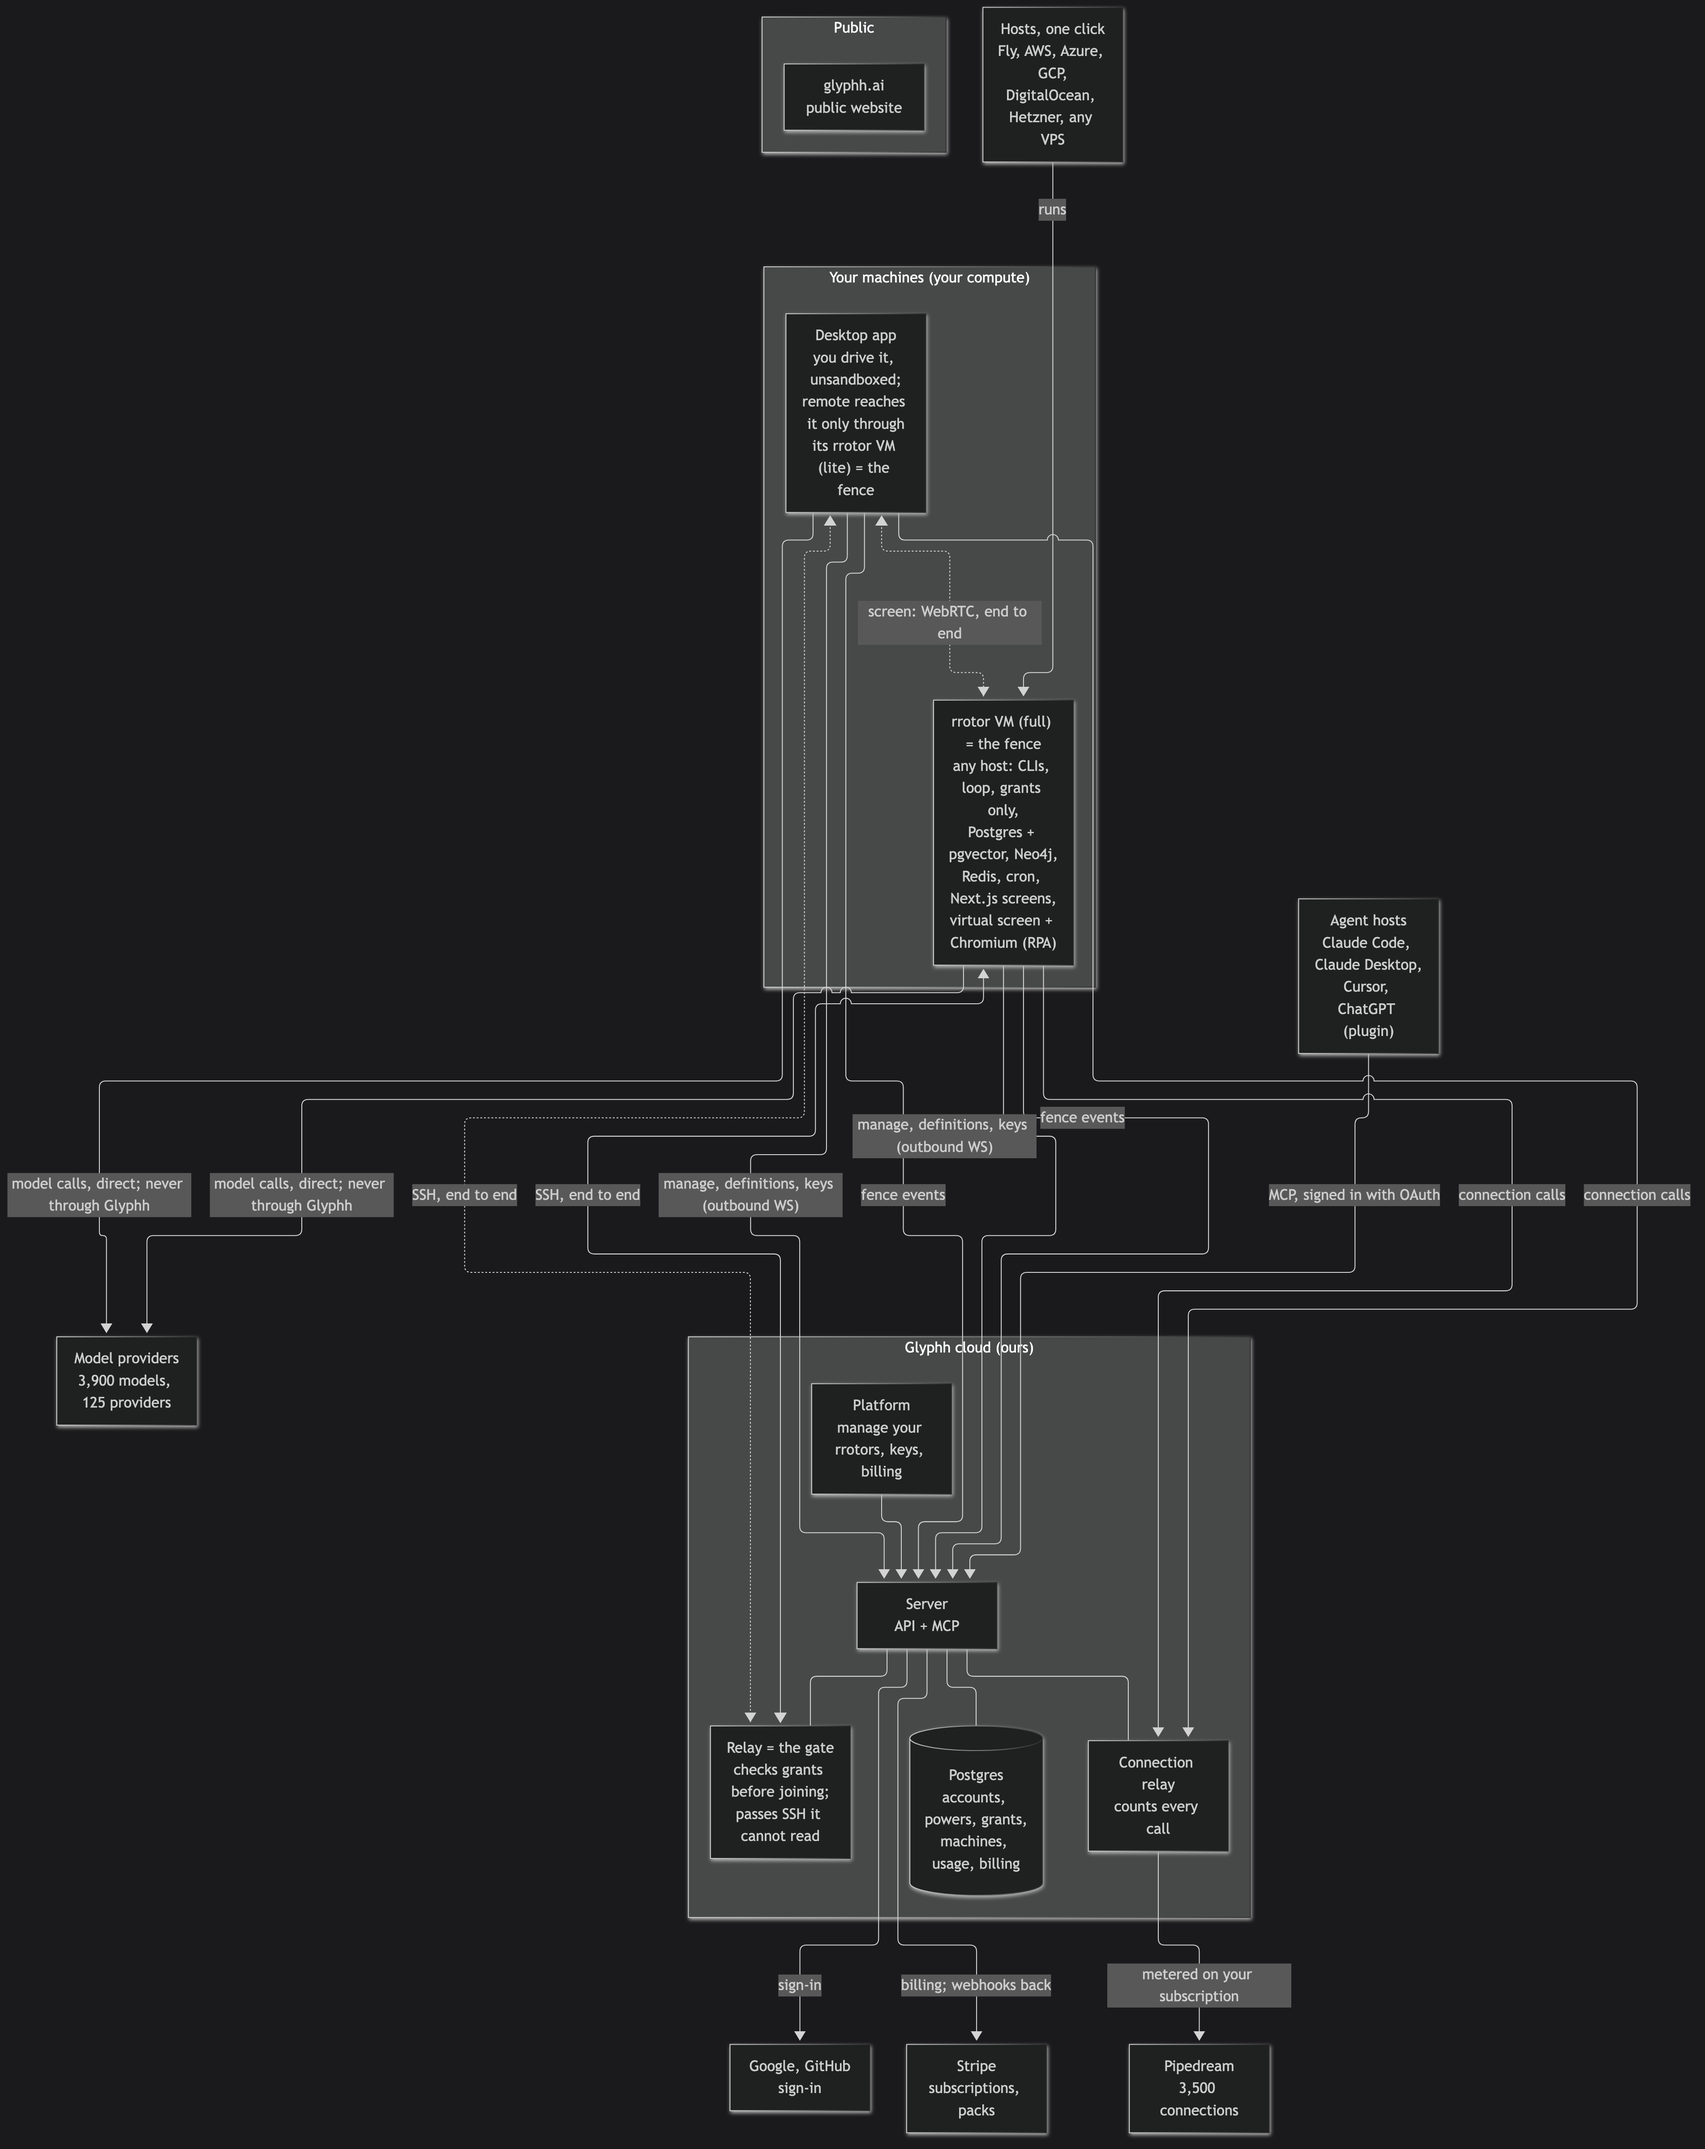
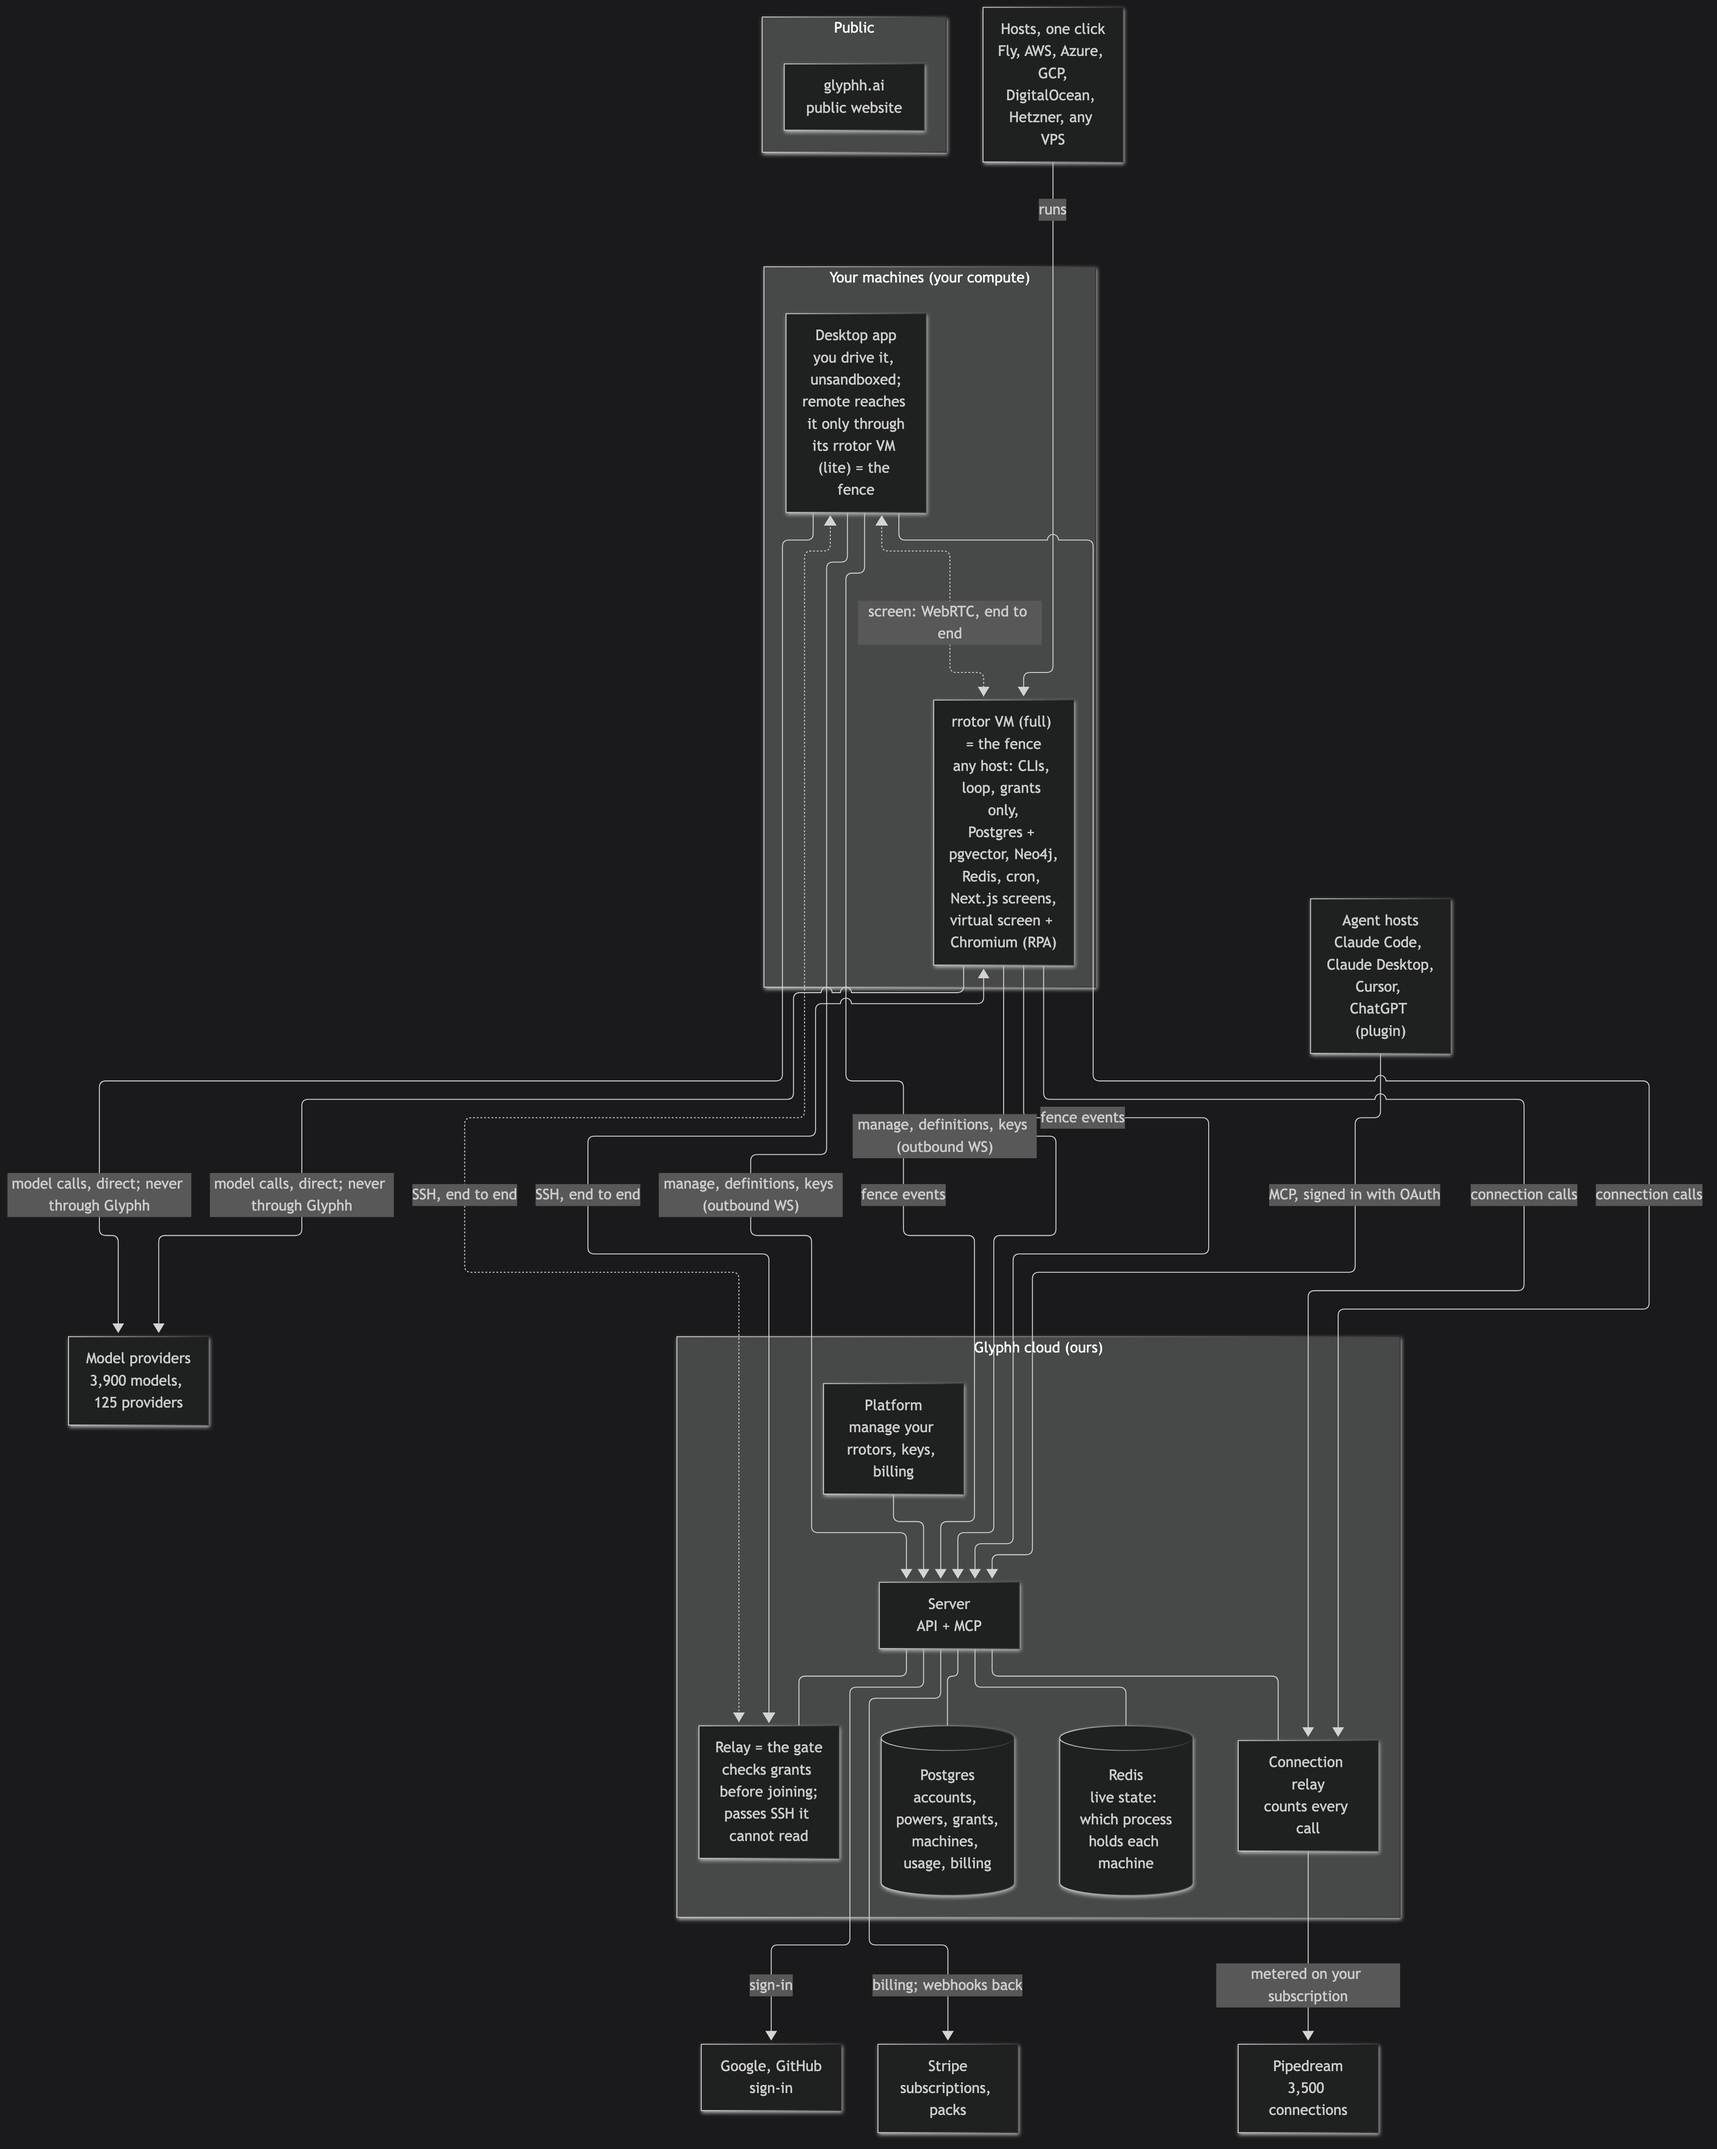
Redis for live state: which process holds each machine, heartbeats, messages between processes; machine_connections leaves the data model

diff --git a/server/docs/status.md b/server/docs/status.md
@@ -20,10 +20,10 @@ On the [data model](data-model.md), in the order they were drawn:
 - **Schedules and runs:** `schedules` (the server's clock, sent to a machine) and `runs` (the history).
 - **Billing and usage:** the plan's credit and machine columns, `subscriptions`, `credit_ledger`, `usage_events` (logged by the server's connection relay, one per call).
 - **Browsers and hosting:** `browsers` (a browser profile on one full rrotor, granted like a folder), and one-click sign-ins on `machine_sign_ins` for new hosts.
-- **People and machines:** `invites`, `machines` (with their edition, SSH key, fingerprint and shell switch), `machine_sign_ins`, `machine_connections` (which server process holds each machine), `fence_events` (what rrotor reports when a run reaches past its fence), `api_keys`; folders are on a machine, and folder grants are read or write.
+- **People and machines:** `invites`, `machines` (with their edition, SSH key, fingerprint and shell switch), `machine_sign_ins`, `fence_events` (what rrotor reports when a run reaches past its fence), `api_keys`; folders are on a machine, and folder grants are read or write.
 - **Signing in and Stripe:** `sign_in_identities` (Google and GitHub by the provider's own id), `oauth_clients` and `oauth_codes` (the plugin's sign-in), `key_links` (the platform's one-time key links), `stripe_events` (each webhook handled once).
 
-On the [architecture](architecture.md): rrotor as a Linux VM (the app you drive unsandboxed, remote control only through rrotor by grants), the platform's usage and billing pages, adding a model in the app, what rrotor carries (Postgres with pgvector, a Next.js server, the loop), and machine to machine over SSH through the relay.
+On the [architecture](architecture.md): Redis for live state (which process holds each machine, heartbeats, messages between processes), rrotor as a Linux VM (the app you drive unsandboxed, remote control only through rrotor by grants), the platform's usage and billing pages, adding a model in the app, what rrotor carries (Postgres with pgvector, a Next.js server, the loop), and machine to machine over SSH through the relay.
 
 ## Open
 
@@ -31,7 +31,6 @@ Decisions still to make. Where a proposal is written, it is a proposal, not a de
 
 - **Conversations:** not drawn. Proposal: the server keeps each conversation's record (title, super power, machine, run, status, times), rrotor keeps the messages, and the app and web open them over SSH through the relay.
 - **Where the org admin's pages live:** members, teams, and the allowed models and connections, in the app or on the platform.
-- **Redis for live state:** proposed (which process holds each machine, heartbeats, control messages), replacing the `machine_connections` table; not yet agreed.
 - **RPA on a desktop:** the full rrotor has the virtual screen and Chromium; whether the desktop's lite rrotor gets them too, or desktop RPA stays in the app's own browser.
 - **App settings** (workspaces, tabs, layout, appearance): not drawn; on hold.
 - **The rrotor definition:** what a super power's definition holds (its workflows, pipelines and screens), how one super power's data is kept apart from another's in rrotor's Postgres, and how its screens reach the app and the web from a remote machine.

diff --git a/server/docs/data-model.md b/server/docs/data-model.md
@@ -23,7 +23,6 @@ erDiagram
     oauth_clients |o--o{ tokens : "issued to"
     users ||--o{ key_links : "gets"
     powers |o--o{ key_links : "sets the key of"
-    machines ||--o| machine_connections : "connected through"
     machines ||--o{ folders : "holds"
     machines ||--o{ fence_events : "reports"
     super_powers ||--o{ fence_events : "tried"
@@ -451,13 +450,6 @@ erDiagram
         timestamptz created_at
     }
 
-    machine_connections {
-        uuid machine_id PK, FK
-        text instance "the server process holding its connection"
-        timestamptz connected_at
-        timestamptz heartbeat_at "a row not heard from is gone"
-    }
-
     fence_events {
         uuid id PK
         uuid org_id FK
@@ -631,7 +623,7 @@ Signing in always happens from a machine, and signing in is how a machine is reg
 
 A machine is a registered rrotor, a small Linux VM: a member's desktop (the app runs it) or a remote server they run, on any host. It connects out to the server with its own token (only the hash is kept) and reports what it is: a desktop or a remote server, its platform, and the rrotor version it runs (builds update themselves, so the server sees which version each machine is on). `last_seen_at` says when it was last online. Its edition says what it can host: a desktop's rrotor is lite (no pgvector, no Neo4j), a remote one is full, so a super power that needs vectors or a graph is never placed or scheduled on a lite machine. A folder is always on one machine (`folders.machine_id`): the same path on two machines is two folders, and a folder grant says whether the super power may only read it or also write it (`grants.access`). At sign-in a machine also makes its own SSH key pair: the private key stays on the machine, the public key is registered here with its fingerprint (see the architecture, Machine to machine). A plan includes a number of machines (`included_machines`). An org can add more for a monthly price per extra machine, set per plan (`extra_machine_cents`, billed on the plan's Stripe price for extras); the subscription carries how many it bought (`extra_machines`). An org can register up to its included plus its extra machines; revoking one stops it connecting and frees its place.
 
-**machine_connections** says which server process holds each connected machine's connection, so a request landing on another process is sent to the right one (Postgres notifications carry it across; no Redis). A row not heard from within its heartbeat is treated as gone.
+**Which server process holds a machine's connection is not in this database:** it is live state that is only true right now, so it lives in Redis (see the architecture, Data). `last_seen_at` here is updated when a machine connects and disconnects, not on every heartbeat.
 
 **fence_events** are what rrotor reports when something inside a run reaches past its fence: a path that is not mounted, a host not on its network list, a channel it was not granted. The relay never reads the stream to find them; rrotor tells the server, and the platform shows them ("this super power tried to leave its folders").
 

diff --git a/server/docs/architecture.md b/server/docs/architecture.md
@@ -10,10 +10,12 @@ flowchart TB
         Platform["Platform<br/>manage your rrotors, keys, billing"]
         Server["Server<br/>API + MCP"]
         DB[("Postgres<br/>accounts, powers, grants,<br/>machines, usage, billing")]
+        Live[("Redis<br/>live state: which process<br/>holds each machine")]
         Relay["Relay = the gate<br/>checks grants before joining;<br/>passes SSH it cannot read"]
         ConnRelay["Connection relay<br/>counts every call"]
         Platform --> Server
         Server --- DB
+        Server --- Live
         Server --- Relay
         Server --- ConnRelay
     end
@@ -196,7 +198,9 @@ Two ways in, one per surface, both in the `glyphh-ai/glyphh` repo (private for n
 
 ### Data
 
-- **Database:** one Postgres for every tenant, without pgvector.
+- **Database:** one Postgres for every tenant, without pgvector: the durable truth.
+- **Live state:** Redis, managed with a standby, for what is only true right now: which server process holds each machine's connection, machine heartbeats (keys that expire on their own when a machine goes quiet), and messages between server processes (cut this session, unmount this folder, this grant was revoked); later rate counters and short-lived caches. Losing it loses nothing: machines reconnect and register again in seconds.
+- **Joining two machines** happens on the process that already holds B's connection: A's request is sent there, so SSH bytes flow through one process and never cross between servers. Redis carries only the lookup and the control messages, never the bytes.
 - **Tenant isolation:** row-level security keyed on the org, enforced by the database.
 - **Access:** SQLAlchemy 2 (async) over asyncpg.
 - **Schema:** one schema file until relaunch, then Alembic migrations.
